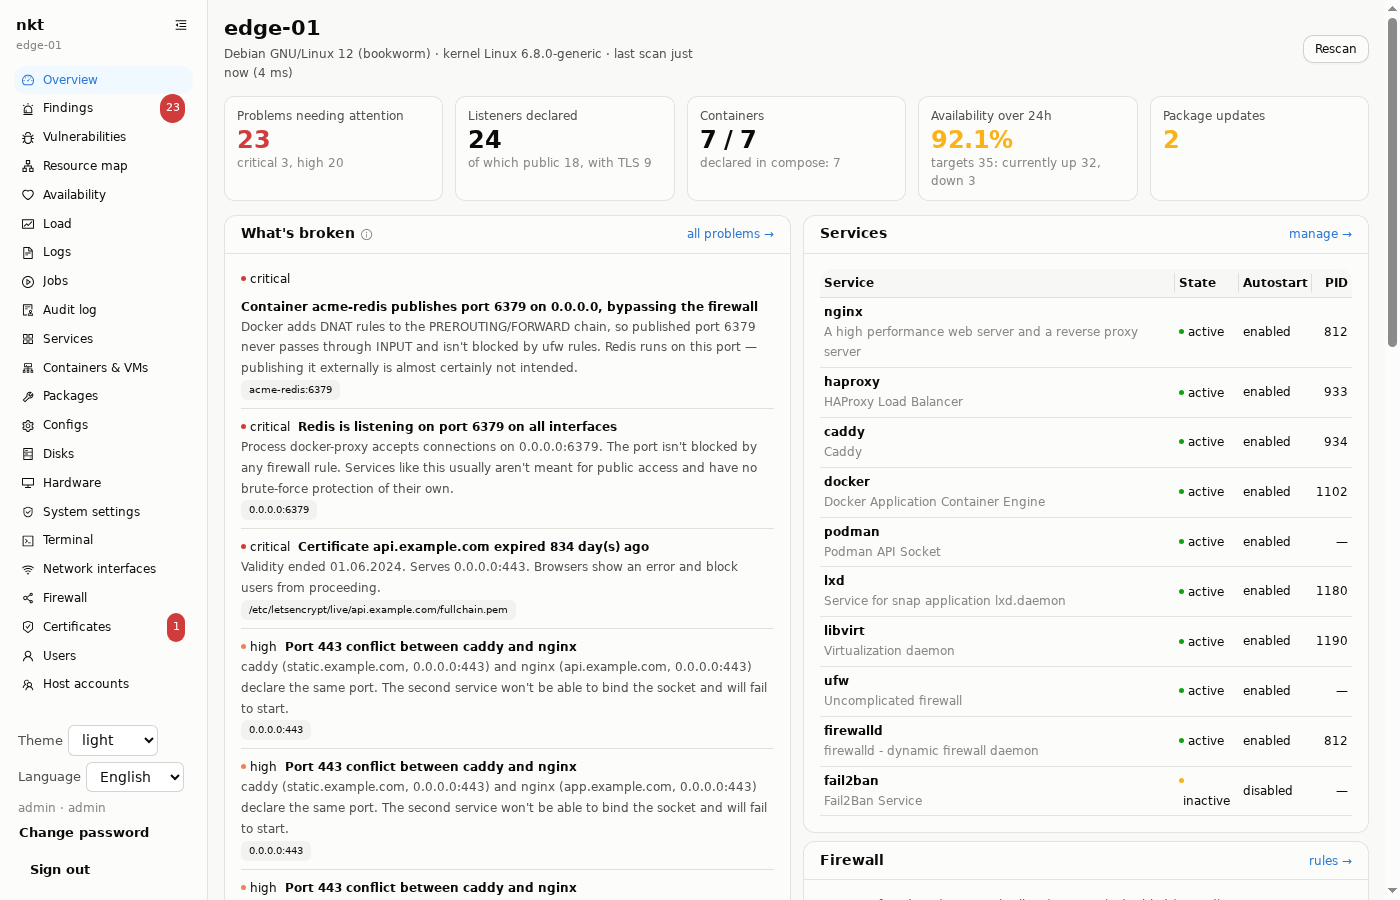
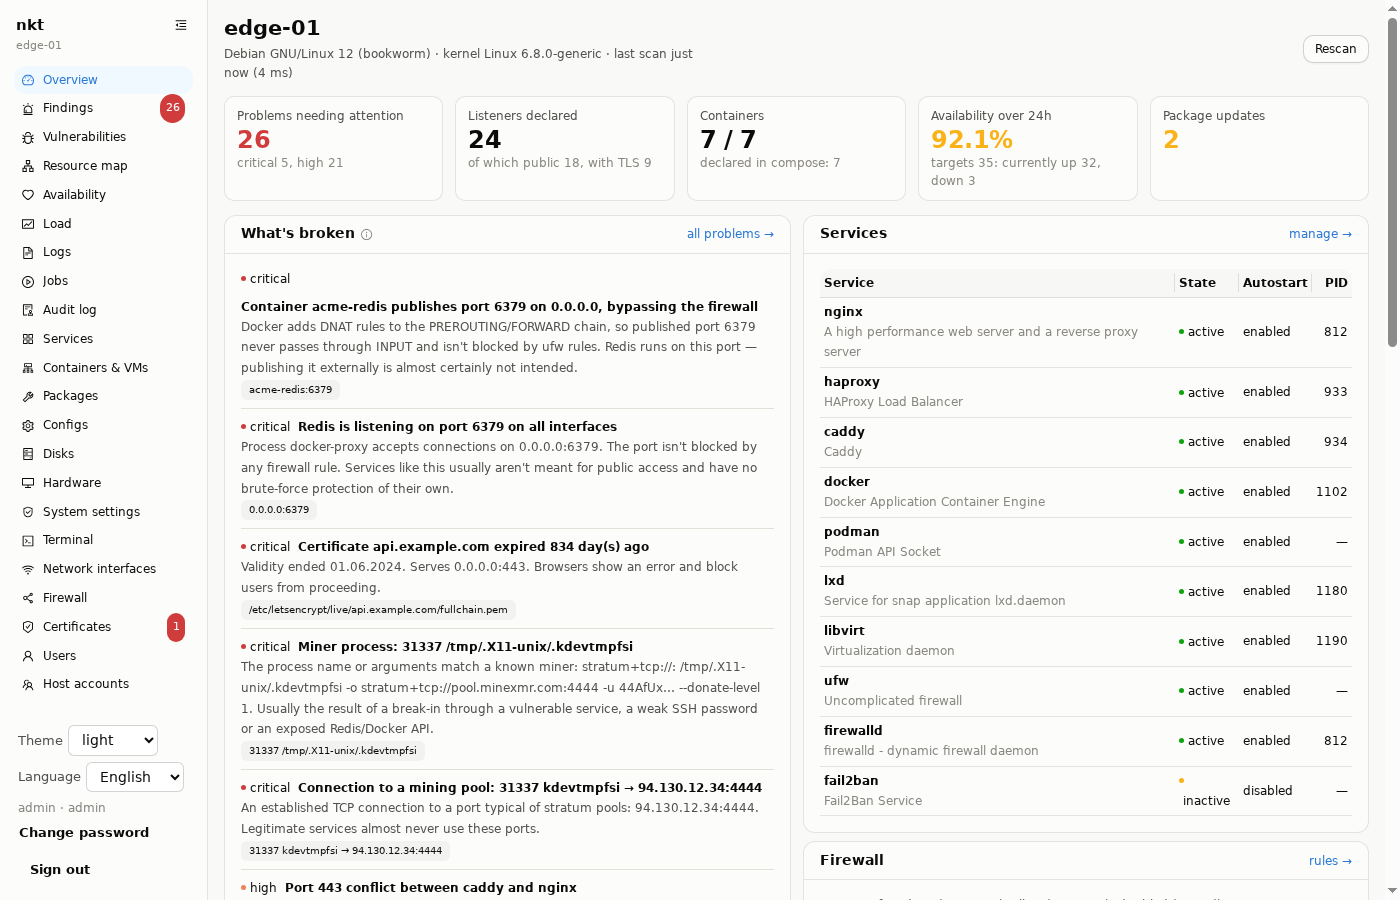
Сайт: возможности заново из FEATURES, вредоносное на лендинге и в руководстве

Changed region(s): [[0.1536, 0.7156, 0.5529, 0.9644]]

diff --git a/scripts/screenshots.py b/scripts/screenshots.py
@@ -33,6 +33,7 @@ SCREENS = [
     ('overview', 'host', '/', ''),
     ('findings', 'host', '/findings', ''),
     ('topology', 'host', '/topology', ''),
+    ('malware', 'host', '/vulnerabilities', "tab({ru: 'Вредоносное', en: 'Malware'})"),
     ('availability', 'host', '/availability', ''),
     ('usage', 'host', '/usage', ''),
     ('audit', 'host', '/audit', ''),

diff --git a/site/features.md b/site/features.md
@@ -49,6 +49,8 @@ outline: [2, 3]
 - Установка trivy автоматически при первом скане.
 - Список уязвимостей с серьёзностью, пакетом, исправленной версией и ссылками; фильтры.
 - Ход сканирования в реальном времени.
+- Вкладка «Вредоносное»: эвристическая проверка на майнеры и признаки взлома без сторонних программ — процессы с именами майнеров, соединения с пулами, бинарники, удалённые с диска или запущенные из /tmp, долгая загрузка CPU не из пакета, /etc/ld.so.preload, cron с «curl | sh», юниты из временных каталогов, чужие SUID-файлы, блокировки в /etc/hosts; в каждом скане, находки — в «Проблемах» и оповещениях хаба.
+- ClamAV: установка пакетом, обновление базы сигнатур, скан выбранных каталогов хоста и образов контейнеров (по одному, выбранных или всех) с потоковым журналом, карантин заражённых файлов с возвратом и удалением.
 
 ### Карта ресурсов
 - Граф «внешняя сеть → сервис → слушатель → пул → бэкенд → контейнер → docker-сеть», построенный из конфигов и реального состояния.
@@ -93,7 +95,7 @@ outline: [2, 3]
 - **Docker**: контейнеры (статус, образ, порты, сети), запуск/остановка/перезапуск/удаление, логи, создание контейнера, сканирование compose-стеков.
 - **Docker → образы**: список с размером, датой и использованием, удаление, сохранение в tar на хосте, очистка осиротевших слоёв.
 - **Docker → стеки**: compose-файлы хоста, `up`/`down`/`restart`, редактирование compose через редактор конфигов, новый стек из шаблона.
-- Установка Docker с официального репозитория docker.com (или скриптом get.docker.com) с живым журналом.
+- Установка Docker с официального репозитория docker.com (или скриптом get.docker.com) с живым журналом; когда нет только клиента (Debian 13: docker.io без docker-cli) — ставятся лишь docker-cli и compose-плагин, а на это указывает находка.
 - **Podman**: контейнеры через собственный сокет, тот же жизненный цикл.
 - **LXD**: контейнеры и виртуальные машины, `launch`, запуск/остановка, удаление.
 - **Виртуальные машины (libvirt/QEMU)**: список доменов, запуск/выключение/принудительное выключение/перезагрузка, автозапуск, удаление с дисками или без, адреса машин.
@@ -196,6 +198,7 @@ outline: [2, 3]
 - Задания хаба с журналом.
 - Экспорт и импорт хаба целиком: хосты с секретами, группы, машины с родителями, профили с историей, шаблоны машин, настройки; файл шифруется паролем.
 - Централизованная база уязвимостей trivy для всех хостов, обновление по расписанию и по кнопке.
+- Копия базы сигнатур ClamAV на хабе (заводится кнопкой в «О системе», дальше обновляется по расписанию, качается только изменившееся) и заливка её на хост заданием — «база с хаба» во вкладке «Вредоносное».
 - «О системе»: версия хаба, проверка релизов GitHub, обновление до последней, откат на предыдущую, описание новой версии до установки.
 - Настройка через `hub.env`, запуск как systemd-юнит, в Docker Compose или Kubernetes.
 

diff --git a/site/en/features.md b/site/en/features.md
@@ -49,6 +49,8 @@ Everything nkt can do, by UI section — one line, one feature. How to install i
 - trivy is installed automatically on the first scan.
 - Vulnerability list with severity, package, fixed version and links; filters.
 - Scan progress in real time.
+- The “Malware” tab: a heuristic check for miners and signs of a break-in with no third-party tools — processes named like miners, pool connections, binaries deleted from disk or started from /tmp, long CPU load by a process not from any package, /etc/ld.so.preload, cron with “curl | sh”, units from temporary directories, foreign SUID files, blocks in /etc/hosts; on every scan, results go to Findings and hub alerts.
+- ClamAV: package install, signature database updates, scans of chosen host directories and container images (one, selected or all) with a live log, quarantine of infected files with restore and purge.
 
 ### Resource map
 - Graph "external network → service → listener → pool → backend → container → docker network" built from configs and the real state.
@@ -93,7 +95,7 @@ Everything nkt can do, by UI section — one line, one feature. How to install i
 - **Docker**: containers (state, image, ports, networks), start/stop/restart/remove, logs, container creation, compose stack scanning.
 - **Docker → images**: list with size, date and usage, removal, saving to a tar on the host, pruning dangling layers.
 - **Docker → stacks**: the host's compose files, `up`/`down`/`restart`, compose editing through the config editor, a new stack from a template.
-- Docker installation from the official docker.com repository (or the get.docker.com script) with a live log.
+- Docker installation from the official docker.com repository (or the get.docker.com script) with a live log; when only the client is missing (Debian 13: docker.io without docker-cli) — just docker-cli and the compose plugin are installed, with a finding pointing it out.
 - **Podman**: containers over its own socket, the same lifecycle.
 - **LXD**: containers and virtual machines, `launch`, start/stop, removal.
 - **Virtual machines (libvirt/QEMU)**: domain list, start/shutdown/force-off/reboot, autostart, removal with or without disks, machine addresses.
@@ -196,6 +198,7 @@ Everything nkt can do, by UI section — one line, one feature. How to install i
 - Hub jobs with a log.
 - Whole-hub export and import: hosts with secrets, groups, machines with parents, profiles with history, machine templates, settings; the file is password-encrypted.
 - A centralized trivy vulnerability database for all hosts, refreshed on a schedule and by button.
+- A copy of the ClamAV signature database on the hub (created by a button in “About”, then refreshed on a schedule, only what changed is downloaded) and its upload to a host as a job — “database from hub” in the “Malware” tab.
 - "About": hub version, GitHub release check, update to the latest, rollback to the previous, the new version's notes before installing.
 - Configuration via `hub.env`, running as a systemd unit, in Docker Compose or Kubernetes.
 

diff --git a/site/index.md b/site/index.md
@@ -32,8 +32,8 @@ features:
     title: Сертификаты целиком
     details: Все сертификаты из конфигов и /etc/letsencrypt, сверка с TLS-сокетом, автопродление, выпуск Let's Encrypt, PEM для haproxy, самоподписанные.
   - icon: 🛡
-    title: Firewall и уязвимости
-    details: ufw и firewalld с защитой порта 22, iptables как есть; скан пакетов ОС и образов контейнеров на CVE через trivy.
+    title: Firewall, уязвимости, вредоносное
+    details: ufw и firewalld с защитой порта 22; CVE в пакетах ОС и образах через trivy; майнеры и признаки взлома без сторонних программ, ClamAV с карантином.
   - icon: 📈
     title: Наблюдение
     details: Доступность каждого слушателя по расписанию, тепловая карта простоев, графики нагрузки, живые логи, терминал и btop в браузере.

diff --git a/WHATSNEW.md b/WHATSNEW.md
@@ -9,6 +9,12 @@
 Release из разделов, накопившихся с прошлого тега, а хаб показывает это
 описание в разделе «О системе», когда появляется новая версия.
 
+## v1.10.16 — 2026-09-13
+
+- Сайт актуализирован: «Возможности» заново собраны из FEATURES (docker-cli,
+  вредоносное, ClamAV, база с хаба), карточка на лендинге, скриншот вкладки
+  «Вредоносное» в руководстве; обзор и проблемы пересняты с демо-майнером.
+
 ## v1.10.15 — 2026-09-13
 
 - База ClamAV с хаба: «О системе» → «База ClamAV» скачивает копию базы

diff --git a/site/en/index.md b/site/en/index.md
@@ -32,8 +32,8 @@ features:
     title: Certificates in full
     details: Every certificate from the configs and /etc/letsencrypt, comparison with the TLS socket, auto-renewal, Let's Encrypt issuance, PEM for haproxy, self-signed ones.
   - icon: 🛡
-    title: Firewall and vulnerabilities
-    details: ufw and firewalld with port 22 protection, iptables as is; OS package and container image CVE scans via trivy.
+    title: Firewall, vulnerabilities, malware
+    details: ufw and firewalld with port 22 protection; CVEs in OS packages and images via trivy; miners and signs of a break-in with no third-party tools, ClamAV with quarantine.
   - icon: 📈
     title: Monitoring
     details: Availability of every listener on a schedule, a downtime heatmap, load graphs, live logs, a terminal and btop in the browser.

diff --git a/site/guide/overview.md b/site/guide/overview.md
@@ -65,6 +65,8 @@ compose, firewall и сертификаты разбираются и сверя
 общая для всех хостов). Список: серьёзность, пакет, исправленная версия,
 ссылки; ход сканирования — в реальном времени.
 
+![Вредоносное](/screens/ru/malware.png)
+
 Вкладка **«Вредоносное»** — проверка на майнеры и признаки взлома без
 сторонних программ (процессы с именами майнеров, соединения с пулами,
 бинарники из /tmp или удалённые с диска, cron с «curl | sh», юниты из

diff --git a/site/en/guide/overview.md b/site/en/guide/overview.md
@@ -63,6 +63,8 @@ database is downloaded automatically (or taken from the hub, which keeps
 one for all hosts). The list: severity, package, fixed version, links; the
 scan progress is live.
 
+![Malware](/screens/en/malware.png)
+
 The **“Malware”** tab — a check for miners and signs of a break-in with
 no third-party tools (processes named like miners, pool connections,
 binaries from /tmp or deleted from disk, cron with “curl | sh”, units
